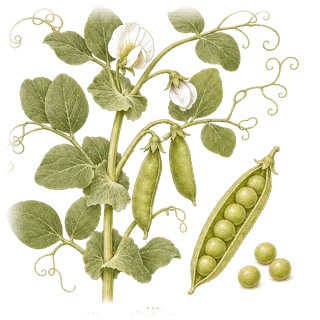
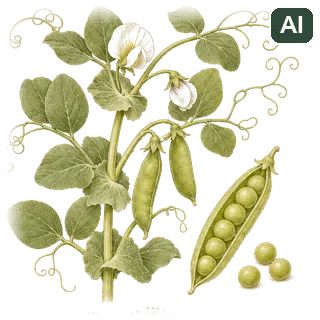
Crop plates carry a visible AI watermark, as the project's rules require

Changed region(s): [[0.8438, 0.0, 1.0, 0.1562]]

diff --git a/src/components/CropPlate.tsx b/src/components/CropPlate.tsx
@@ -1,7 +1,8 @@
 // A crop's botanical plate: a small painting of the plant with its seed or pod, on its own paper.
 // Used where there is room to see it (the three harvests, the advice, the last-crop question). Inside a sentence the
 // crop keeps its line icon (CropName), because a painting at text size is only a smudge.
-// The plates were made with AI (ChatGPT image generation) from a written brief, and are not photographs.
+// The plates were made with AI (ChatGPT image generation) from a written brief, and are not photographs. Each file
+// carries a visible "AI" badge (the project's rule: no AI-generated image without a visible watermark).
 // Written with AI assistance (Claude, Anthropic).
 import type { CropId } from "../data/types";
 

diff --git a/README.md b/README.md
@@ -357,7 +357,7 @@ A log of how AI was used, from the first preparation to the deadline, is in `doc
 - **AI coding and research tools** were used to build it: Claude (Opus for interface code and design, Sonnet for background research), OpenAI Codex (Sol, for audits), and Gemini (Hydrogen, for read-only reviews and for editing the app's wording in English and Italian over three passes, the last a rewrite of the Italian so it reads as a person's writing, which Claude then checked and applied; no native Italian speaker has read it), coordinated with a multi-agent tool called fleet.
 - **The data notebooks** in `ColabNotebooks/` were written with Claude (Anthropic) on claude.ai, as were their checks, `HANDOVER.md`, the data helper `src/data/fieldshift-data.js` and the code that turns the data into the app's figures. The data values come from the cited datasets, not from the AI, except a few published values from the trial at the demo field (its weather station's rain and temperature, and its soil), typed in from Denora et al. (2025) and labelled as such.
 - **Code in this repository** was largely written by these tools and reviewed by the team.
-- **No AI-generated images or video** are used without a visible watermark.
+- **No AI-generated images or video** are used without a visible watermark. The nine crop pictures (botanical plates in `public/crops/`) were drawn with ChatGPT image generation from a written brief; each file carries a visible "AI" badge.
 - **The app says so too.** A short version of this section, with the credit lines the data licences ask for, is on the "Data and credits" page, linked from Check and share, and on the printout (`src/components/DataCredits.tsx`).
 - **The app itself contains no AI model.** Options come from a written decision tree and ranking rules.
 - **Voice uses the phone, not us.** The app contains no hosted AI model and sends nothing to a server of ours. Its voice commands and "read aloud" use the browser's built-in speech recognition and speech synthesis, which the phone maker (Google, Apple, Samsung) provides; recognition may send the audio to the phone maker's servers. Spoken words become commands through a written list of phrases (`src/voice/commands.ts`), not a model.

diff --git a/docs/space-apps-submission.md b/docs/space-apps-submission.md
@@ -94,4 +94,4 @@ What AI tools did:
 - Google Gemini reviewed the code and edited the app's wording in English and Italian.
 - The data values come from the cited datasets, not from AI. The exception is a few published values from the trial at the demo field, typed in from the paper and labelled as such.
 - The app itself contains no AI model. Its options come from a written decision tree and ranking rules. Voice commands use the phone's built-in speech recognition and a written list of phrases.
-- No AI-generated images or video are used without a visible watermark.
+- No AI-generated images or video are used without a visible watermark. The nine crop pictures were drawn with ChatGPT image generation; each carries a visible "AI" badge.
